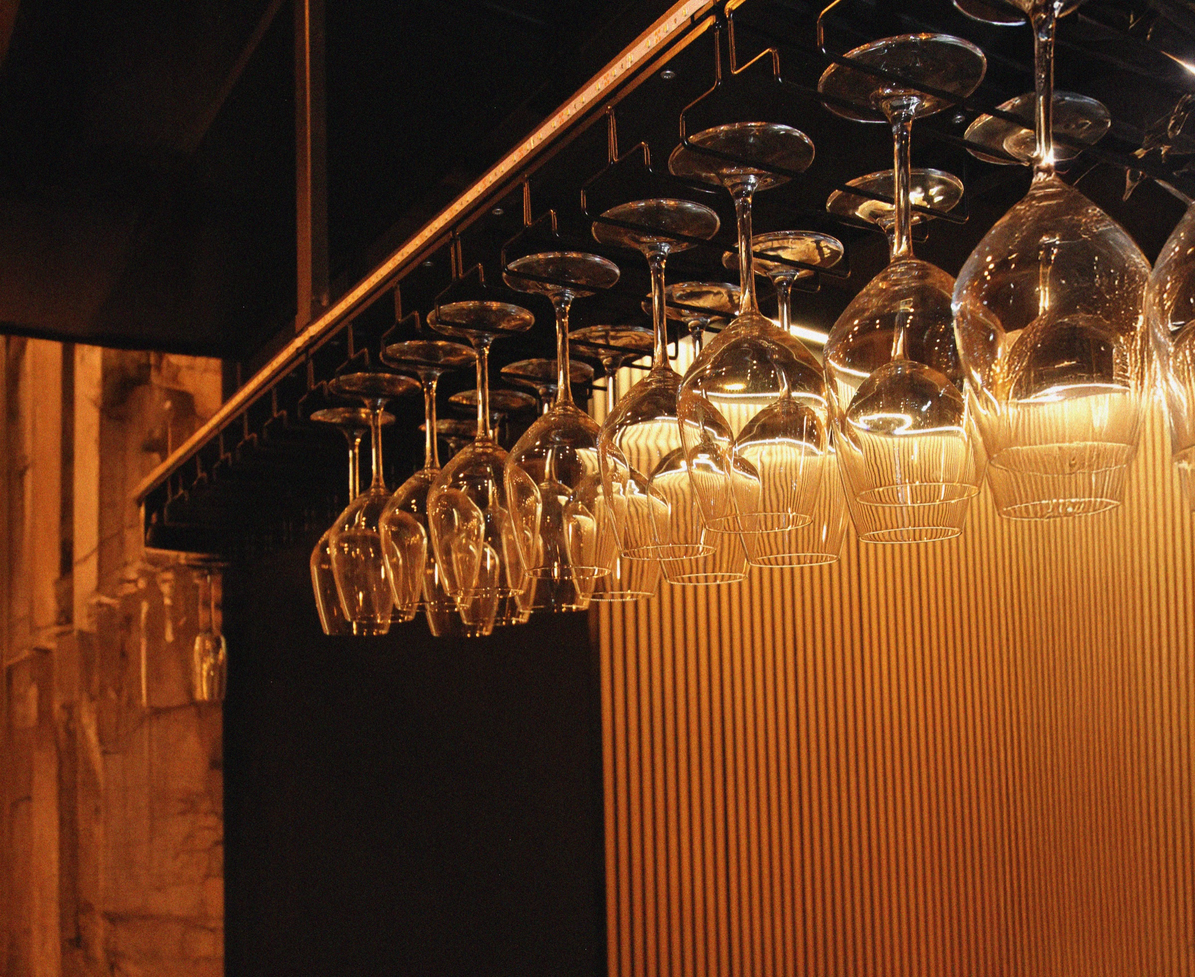
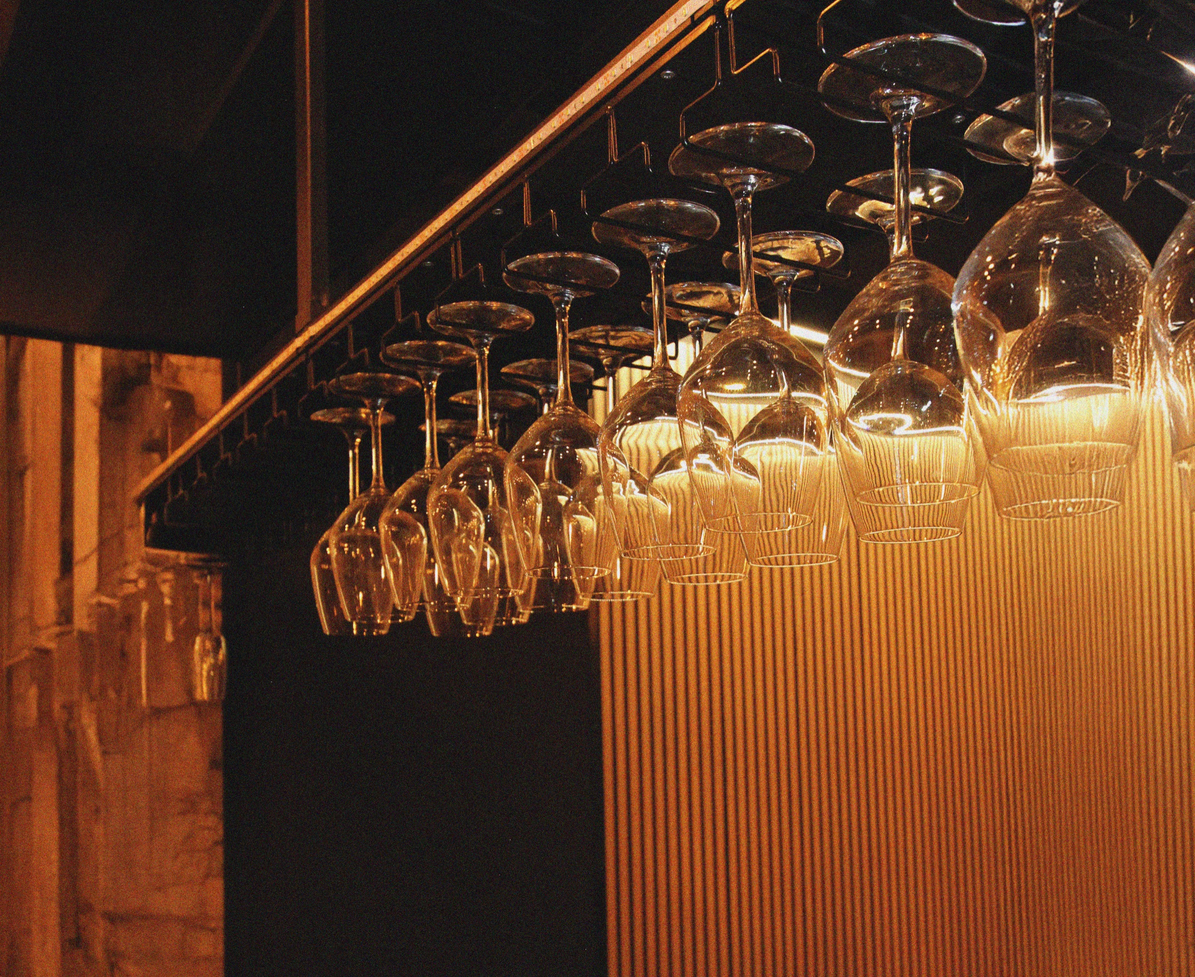
Refresh hero: nueva foto de copas + wordmark con sombras
- Imagen del hero actualizada (foto de copas iluminadas)
- Nuevo SVG del wordmark con drop-shadow sutil (HESTIA + bistró cobre)
- Hero photo a 63.3vh en desktop, 76vh en mobile
- Fade scroll del hero: empieza al 20%, termina al 100% del hero
- Paleta crema unificada: --bg #F1ECE1; secciones Propuesta/Igualada #EEE8D9
- Hardcodes #FFFFFF (footer, dishes-carousel, chef-section) → var(--bg)
- Títulos en #241E13 (matching wordmark)
- Botón amber:hover sin relleno (transparent)
- Título Igualada/Anoia → "EL CORAZÓN / DE L'ANOIA"
- .hero-backdrop ya no muestra gris al hacer fade

diff --git a/styles.css b/styles.css
@@ -33,7 +33,7 @@
   --ambar:   #C99B5C;
 
   /* White canvas, dark ink — Aleia-style light theme */
-  --bg:        #FFFFFF;
+  --bg:        #F1ECE1;
   --bg-2:      #F7F2E8;
   --bg-3:      #EDE5D3;
   --ink:       #14100B;
@@ -89,7 +89,7 @@ button{ font-family:inherit; cursor:pointer; }
   letter-spacing:-.015em;
   line-height:.95;
   margin:0;
-  color:var(--ink);
+  color:#241E13;
   font-size:clamp(54px, 7vw, 110px);
 }
 .display-title span{ font-weight:300; }
@@ -97,7 +97,7 @@ button{ font-family:inherit; cursor:pointer; }
   font-style:italic;
   font-weight:300;
   display:block;
-  color:var(--ink);
+  color:#241E13;
 }
 .display-title.center{ text-align:center; }
 
@@ -115,7 +115,7 @@ button{ font-family:inherit; cursor:pointer; }
   display:block;
   font-weight:500;
   font-style:normal;
-  color:var(--ink);
+  color:#241E13;
 }
 
 .brand-wordmark{
@@ -157,7 +157,7 @@ button{ font-family:inherit; cursor:pointer; }
   border-color:#E2B974;
 }
 .btn-amber:hover{
-  background:#FFFFFF;
+  background:transparent;
   color:#000;
   border-color:#E2B974;
 }
@@ -323,8 +323,8 @@ button{ font-family:inherit; cursor:pointer; }
   right:0;
   bottom:0;
   width:100%;
-  height:76vh;
-  background:#F2F2F2;
+  height:63.3vh;
+  background:var(--bg);
   z-index:0;
 }
 
@@ -337,7 +337,7 @@ button{ font-family:inherit; cursor:pointer; }
   margin:0;
   padding:0;
   width:100%;
-  height:76vh;
+  height:63.3vh;
   z-index:1;
   overflow:hidden;
 }
@@ -345,7 +345,7 @@ button{ font-family:inherit; cursor:pointer; }
   position:absolute; inset:0;
   background:
     linear-gradient(180deg, rgba(17,9,6,0) 0%, rgba(17,9,6,.15) 65%, rgba(17,9,6,.5) 100%),
-    url('assets/hero.jpg?v=2') center/cover no-repeat #110906;
+    url('assets/hero.jpg?v=3') center/cover no-repeat #110906;
 }
 .hero-photo-grain{
   position:absolute; inset:0;
@@ -669,7 +669,7 @@ button{ font-family:inherit; cursor:pointer; }
    FOOTER  (Aleia-style: white bg · 4 columns)
    ──────────────────────────────────────────────────────── */
 .site-footer{
-  background:#FFFFFF;
+  background:var(--bg);
   color:rgb(33,37,41);
   padding:120px 130px 100px;
   position:relative;
@@ -772,7 +772,7 @@ button{ font-family:inherit; cursor:pointer; }
 .proposal-section{
   padding:220px 130px 220px;
   position:relative;
-  background:#F2F2F2;
+  background:#EEE8D9;
 }
 .proposal-wrap{
   max-width:1240px;
@@ -853,7 +853,7 @@ button{ font-family:inherit; cursor:pointer; }
    ──────────────────────────────────────────────────────── */
 .dishes-carousel{
   padding:180px 130px;
-  background:#FFFFFF;
+  background:var(--bg);
   position:relative;
 }
 .dishes-wrap{
@@ -927,7 +927,7 @@ button{ font-family:inherit; cursor:pointer; }
    ──────────────────────────────────────────────────────── */
 .chef-section{
   padding:180px 130px;
-  background:#FFFFFF;
+  background:var(--bg);
   position:relative;
 }
 .chef-wrap{
@@ -1046,6 +1046,7 @@ button{ font-family:inherit; cursor:pointer; }
   .nav-left{ gap:20px; }
 
   .hero{ padding:120px 22px 60px; min-height:90vh; }
+  .hero-photo, .hero-backdrop{ height:76vh; }
   .hero-card{ left:22px; right:22px; bottom:40px; width:auto; }
   .hero-bottom{ left:22px; right:22px; bottom:14px; font-size:9.5px; }
 

diff --git a/index.html b/index.html
@@ -39,7 +39,7 @@
 <section class="hero">
   <div class="hero-wordmark">
     <h1 class="visually-hidden">Hestia Bistró</h1>
-    <img src="assets/hestia-wordmark-new.svg" alt="Hestia Bistró" class="hero-wordmark-svg" />
+    <img src="assets/hestia-wordmark-new.svg?v=6" alt="Hestia Bistró" class="hero-wordmark-svg" />
   </div>
 
   <div class="hero-backdrop" aria-hidden="true"></div>
@@ -188,8 +188,8 @@
 <section class="proposal-section territorio-section" id="territorio">
   <div class="proposal-wrap">
     <h2 class="display-title section-title">
-      <span>IGUALADA</span>
-      <span>ANOIA</span>
+      <span>EL CORAZÓN</span>
+      <span>DE L'ANOIA</span>
     </h2>
 
     <div class="proposal-intro territorio-intro">

diff --git a/script.js b/script.js
@@ -54,9 +54,11 @@
   function update(){
     const heroH = hero.offsetHeight;
     const scrolled = Math.max(0, window.scrollY);
-    // Fully visible at top, fully transparent at ~70% of hero height
-    const fadeDistance = heroH * 0.7;
-    const opacity = Math.max(0, Math.min(1, 1 - scrolled / fadeDistance));
+    // Fade starts at 35% of hero height, ends at 85% — la imagen aguanta visible un poco más
+    const fadeStart = heroH * 0.20;
+    const fadeEnd   = heroH * 1.00;
+    const t = (scrolled - fadeStart) / (fadeEnd - fadeStart);
+    const opacity = Math.max(0, Math.min(1, 1 - t));
     if (photo) photo.style.opacity = opacity;
     if (wordmark) wordmark.style.opacity = opacity;
     ticking = false;
